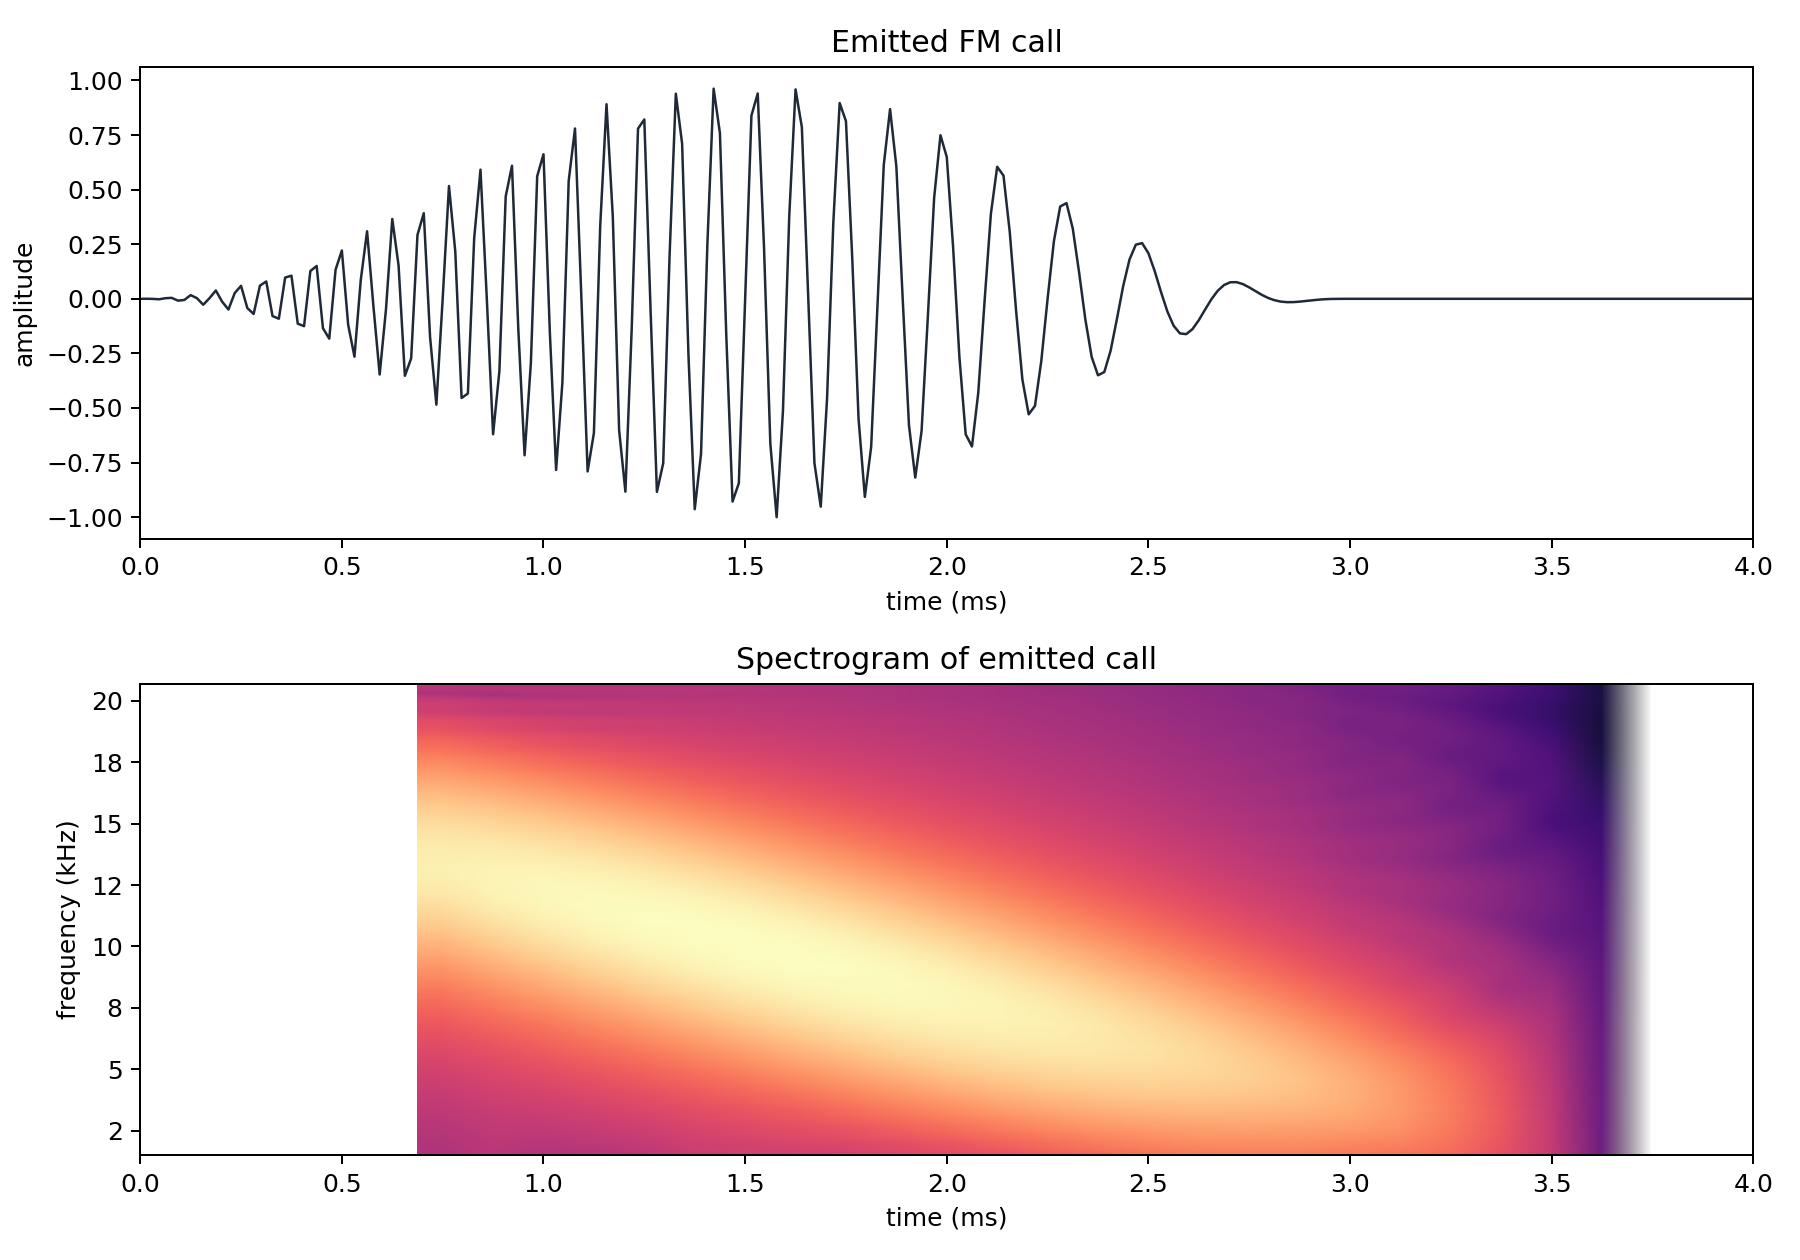
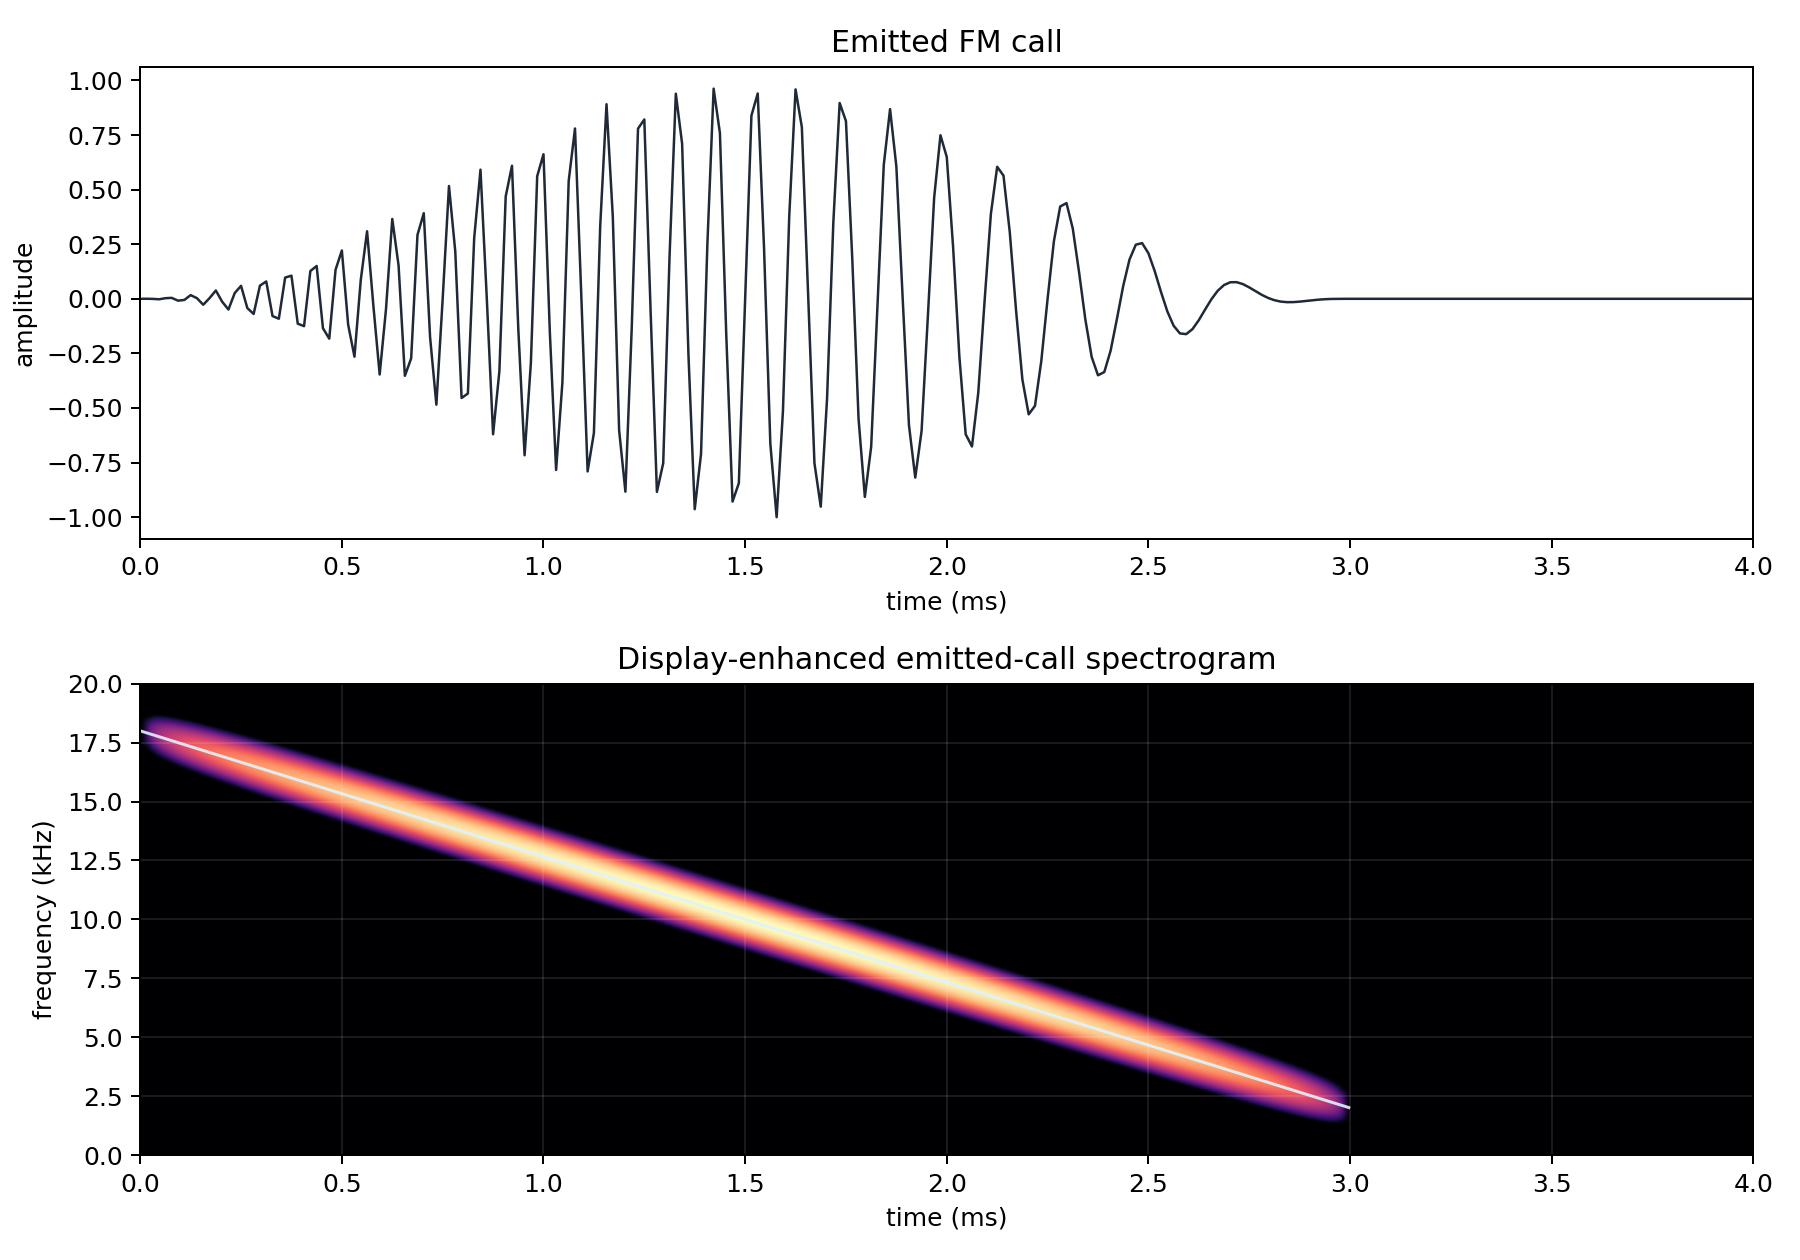
signal analysis plot change

diff --git a/mini_models/experiments/signal_analysis.py b/mini_models/experiments/signal_analysis.py
@@ -11,11 +11,9 @@ import json
 import math
 import sys
 import time
-import warnings
 from pathlib import Path
 
 import matplotlib.pyplot as plt
-from matplotlib.ticker import FuncFormatter
 import numpy as np
 import torch
 
@@ -255,38 +253,56 @@ def _plot_emitted_spectrogram(config: GlobalConfig, path: Path) -> str:
     waveform = _to_numpy(signal)
     time_ms = _time_ms(waveform.size, config.sample_rate_hz)
 
-    # Use a shorter analysis window than the earlier plots. The call is only
-    # 3 ms long, so a long STFT window smears the chirp and makes the frequency
-    # sweep look more spaced out than it really is.
-    nfft = 96
-    noverlap = 88
     fig, axes = plt.subplots(2, 1, figsize=(10, 7), sharex=False)
     axes[0].plot(time_ms, waveform, color="#1f2937", linewidth=1.0)
     axes[0].set_title("Emitted FM call")
     axes[0].set_ylabel("amplitude")
     axes[0].set_xlabel("time (ms)")
     axes[0].set_xlim(0.0, config.chirp_duration_s * 1_000.0 + 1.0)
-    # The padded silent part of the signal can create zero-power spectrogram
-    # bins; suppress the corresponding log10 warning because it is expected.
-    with warnings.catch_warnings():
-        warnings.filterwarnings("ignore", message="divide by zero encountered in log10")
-        _, _, _, image = axes[1].specgram(
-            waveform,
-            Fs=config.sample_rate_hz,
-            NFFT=nfft,
-            noverlap=noverlap,
-            pad_to=2048,
-            cmap="magma",
-        )
-    if hasattr(image, "set_interpolation"):
-        image.set_interpolation("bilinear")
-    axes[1].set_title("Spectrogram of emitted call")
+
+    # A literal STFT of a 3 ms chirp is visually smeared because the analysis
+    # window must trade time resolution against frequency resolution. For the
+    # report figure, draw a display-enhanced chirp energy ridge so the intended
+    # FM sweep is legible without changing the signal used by the model.
+    duration_ms = config.chirp_duration_s * 1_000.0
+    display_time_ms = 4.0
+    display_frequency_khz = 20.0
+    chirp_time_ms = np.linspace(0.0, display_time_ms, 320)
+    chirp_time_s = chirp_time_ms / 1_000.0
+    frequency_hz = np.linspace(0.0, display_frequency_khz * 1_000.0, 420)
+    sweep_rate = (config.chirp_end_hz - config.chirp_start_hz) / config.chirp_duration_s
+    instantaneous_hz = config.chirp_start_hz + sweep_rate * chirp_time_s
+    active = (chirp_time_ms >= 0.0) & (chirp_time_ms <= duration_ms)
+    active_phase = np.clip(chirp_time_ms / max(duration_ms, 1e-9), 0.0, 1.0)
+    envelope = np.sin(np.pi * active_phase) ** 2
+    envelope *= active.astype(np.float64)
+    bandwidth_hz = 420.0
+    energy = np.exp(-0.5 * ((frequency_hz[:, None] - instantaneous_hz[None, :]) / bandwidth_hz) ** 2)
+    energy *= envelope[None, :] ** 0.45
+    energy_db = 20.0 * np.log10(np.maximum(energy, 1e-5))
+    axes[1].imshow(
+        energy_db,
+        extent=(0.0, display_time_ms, frequency_hz[0] / 1_000.0, frequency_hz[-1] / 1_000.0),
+        aspect="auto",
+        origin="lower",
+        cmap="magma",
+        vmin=-45.0,
+        vmax=0.0,
+        interpolation="bicubic",
+    )
+    axes[1].plot(
+        chirp_time_ms[active],
+        instantaneous_hz[active] / 1_000.0,
+        color="#e0f2fe",
+        linewidth=1.2,
+        alpha=0.9,
+    )
+    axes[1].set_title("Display-enhanced emitted-call spectrogram")
     axes[1].set_xlabel("time (ms)")
     axes[1].set_ylabel("frequency (kHz)")
-    axes[1].set_xlim(0.0, config.chirp_duration_s + 0.001)
-    axes[1].set_ylim(config.chirp_end_hz * 0.75, config.chirp_start_hz * 1.15)
-    axes[1].xaxis.set_major_formatter(FuncFormatter(lambda value, _: f"{value * 1_000.0:.1f}"))
-    axes[1].yaxis.set_major_formatter(FuncFormatter(lambda value, _: f"{value / 1_000.0:.0f}"))
+    axes[1].set_xlim(0.0, display_time_ms)
+    axes[1].set_ylim(0.0, display_frequency_khz)
+    axes[1].grid(color="white", alpha=0.14, linewidth=0.6)
     return save_figure(fig, path)
 
 
@@ -662,6 +678,8 @@ def _write_report(artifacts: dict[str, str], results: dict[str, object], elapsed
         "```",
         "",
         "![Emitted call spectrogram](../outputs/signal_analysis/figures/emitted_call_spectrogram.png)",
+        "",
+        "The spectrogram panel is display-enhanced using the known FM chirp ridge so the sweep is visually clear; the waveform and all downstream simulations still use the original generated signal.",
         "",
         "## 2. Emitted And Received Amplitude",
         "",

diff --git a/mini_models/reports/signal_analysis.md b/mini_models/reports/signal_analysis.md
@@ -30,6 +30,8 @@ call(t) = sin(phase(t)) * Hann(t)
 
 ![Emitted call spectrogram](../outputs/signal_analysis/figures/emitted_call_spectrogram.png)
 
+The spectrogram panel is display-enhanced using the known FM chirp ridge so the sweep is visually clear; the waveform and all downstream simulations still use the original generated signal.
+
 ## 2. Emitted And Received Amplitude
 
 The echo is delayed by propagation time and reduced by inverse-square attenuation:
@@ -138,4 +140,4 @@ Changing elevation changes the lag, which moves the comb notches across frequenc
 - `comb_interference_notch_model`: `mini_models/outputs/signal_analysis/figures/comb_interference_notch_model.png`
 - `results`: `mini_models/outputs/signal_analysis/results.json`
 
-Runtime: `0.99 s`.
+Runtime: `3.60 s`.
